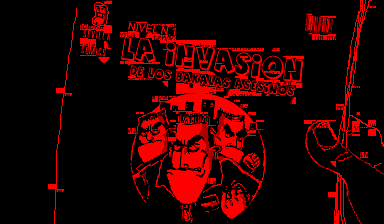
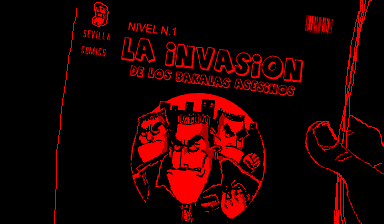
docs: refresh the gallery from the current build, and correct the counts
Gallery is recaptured from today's survey rather than Sunday's, so it shows what
the tree actually produces. Two of the three new shots exist because of the
clipping fixes: Soviet Union 2011's playfield was a blank screen before them.
Hamburgers and BLOX are added, and Soviet Union 2010's wall of intro text is
dropped -- it documented nothing. Capitan Sevilla 2 moves to frame 600; at 900 it
is mid-fade and shows a flat field.

Counts move to 64 / 76 rendering, 35 advancing, 29 frozen, regenerated into
COMPATIBILITY.md from the survey. The frozen half now carries the split that
matters: 16 gated, where our picture is identical at 300/600/900 while hardware
advances, and 13 parked, where neither emulator leaves the boot screen and a
matching score proves nothing.

On 64 rather than 66: Bound High and Virtual Bowling draw nothing in this
session. This was checked rather than assumed -- they are blank against the
pre-fix vip.c too, so the clipping change is not responsible. It also disproves
the explanation this repo has been carrying for them. They were called flaky on
the theory that they miss the first sampled frame before the 45-second timeout;
at 150 seconds they are still blank, and run directly three times each they are
blank identically, 0 and 49 lit pixels with no variation. Within a session they
are deterministic. The flip is across sessions and is still unexplained, so the
old advice stands even though its reason was wrong: a count that moves by exactly
[…]

diff --git a/README.md b/README.md
@@ -4,17 +4,17 @@
 
 Remember the Virtual Boy? Nintendo's red-and-black fever dream from 1995? We're bringing those games back as native executables — no neck strain, no retina damage required.
 
-| | | |
-|:--:|:--:|:--:|
-| ![Mario Kart: Virtual Cup](docs/screenshots/mario-kart-virtual-cup.png) | ![Fishbone](docs/screenshots/fishbone.png) | ![Soviet Union 2010](docs/screenshots/soviet-union-2010.png) |
-| Mario Kart: Virtual Cup | Fishbone | Soviet Union 2010 |
-| ![Capitan Sevilla 2](docs/screenshots/capitan-sevilla-2.png) | ![Vertical Force](docs/screenshots/vertical-force.png) | |
-| Capitan Sevilla 2 | Vertical Force | |
+| | | | |
+|:--:|:--:|:--:|:--:|
+| ![Mario Kart: Virtual Cup](docs/screenshots/mario-kart-virtual-cup.png) | ![Fishbone](docs/screenshots/fishbone.png) | ![Soviet Union 2011](docs/screenshots/soviet-union-2011.png) | ![Hamburgers en Route to Switzerland](docs/screenshots/hamburgers.png) |
+| Mario Kart: Virtual Cup | Fishbone | Soviet Union 2011 | Hamburgers en Route to Switzerland |
+| ![BLOX](docs/screenshots/blox.png) | ![Capitan Sevilla 2](docs/screenshots/capitan-sevilla-2.png) | ![Vertical Force](docs/screenshots/vertical-force.png) | |
+| BLOX | Capitan Sevilla 2 | Vertical Force | |
 
-<sub>All five recompiled to C and booted through the shared generic driver with no
-game-specific code, captured headless at frame 600-900. Shown to document what the
-recompiler currently produces; games, artwork and trademarks belong to their owners.
-See [THIRD_PARTY.md](THIRD_PARTY.md).</sub>
+<sub>All seven recompiled to C and booted through the shared generic driver with no
+game-specific code, captured headless at frame 600-900 from the current build. Shown to
+document what the recompiler currently produces; games, artwork and trademarks belong to
+their owners. See [THIRD_PARTY.md](THIRD_PARTY.md).</sub>
 
 ## What is this?
 
@@ -69,8 +69,9 @@ Progress is tracked in [`COMPATIBILITY.md`](COMPATIBILITY.md), updated as we go.
 ## Status
 
 - **76 / 76 ROMs** (retail + protos + homebrew) recompile and compile clean.
-- **66 / 76 games render on screen** -- **36 still reaching new state** at frame 900 and 30 that drew once and froze -- through the **generic driver** (`games/driver/main.c`) -- no game-specific glue: the recompiler emits the discovered interrupt handlers + reset vector, and the driver wires them up. Three of the 10 that draw nothing are blank on real hardware too -- the three Snowball Wars demos, which never load a single character byte on the Mednafen VB core in 1800 frames. **So the honest denominator is 73, not 76.** Capitan Sevilla 3D and Null Pointer Mockup were on that list until the reference capture was found to be holding buttons that never reached the emulated pad (BizHawk names them `P1 Start`, not `Start`); with input actually applied they both draw on hardware, so they are ours to fix.
+- **64 / 76 games render on screen** on the current build -- **35 still reaching new state** at frame 900, and 29 that drew once and froze. That frozen half is not one thing: measured against hardware (`scripts/reference/motion.py`), **16 are gated** -- our picture is identical at frames 300, 600 and 900 while hardware advances -- and **13 are parked on both sides**, where neither emulator leaves the boot screen and a matching score proves nothing. The count reads 64 rather than the 66 measured in an earlier session because Bound High and Virtual Bowling draw nothing in this one; they are blank against the previous `vip.c` too, so it is not the renderer, and the cross-session flip is still unexplained. All of it runs through the **generic driver** (`games/driver/main.c`) -- no game-specific glue: the recompiler emits the discovered interrupt handlers + reset vector, and the driver wires them up. Three of the 12 that draw nothing are blank on real hardware too -- the three Snowball Wars demos, which never load a single character byte on the Mednafen VB core in 1800 frames. **So the honest denominator is 73, not 76.** Capitan Sevilla 3D and Null Pointer Mockup were on that list until the reference capture was found to be holding buttons that never reached the emulated pad (BizHawk names them `P1 Start`, not `Start`); with input actually applied they both draw on hardware, so they are ours to fix.
 - Getting there took repeated passes of the same loop: find a shared correctness bug, fix it once, measure the whole corpus. Recent ones:
+  - **A world is clipped by the screen, not skipped by it.** The same mistake twice, in opposite directions, both in the VIP's world loop. Worlds with `W` or `H` over 512 were dropped outright -- but a world may be far wider than the display and hardware just clips it, so Insecticide's `W=704` background never drew and the game rendered its objects and HUD on black. And `sy < VB_SCREEN_HEIGHT` bounds a *world*-space index by a *screen*-space limit, which only holds when the origin is non-negative: Soviet Union 2011 parks its background at `GY=-212, H=447` so world rows 224-447 land on screen, and the bound stopped at 223, truncating exactly the visible part. That world went from 0 to 69,426 pixels and the game from 5.5% of the screen lit to 80.9%, matching hardware's own frame-to-frame motion (80.4% against 80.3%).
   - **A function was made out of a call's arguments.** The V810 long-call idiom passes arguments *inline*, in the bytes after the `jal`; the callee reads them through `r31` and returns past them. Those argument bytes had a function made out of them and were decoded as code -- and in Galactic Pinball the first halfword, `0x9800`, decodes as `bp .`, a branch to itself that the caller fell into and spun in for the whole run. The idiom is now detected from the `add N, r31` before `jmp [r31]`, and a split point must be a real instruction boundary. Galactic Pinball went from 1,232 to 9,442 non-zero character writes and from blank to drawing.
   - **The pad only updated when a game asked for it.** `SDLR`/`SDHR` returned a snapshot refreshed only on an `SCR_START` write, but the VB can also read the pad itself -- so a game relying on that saw zero buttons forever. Jack Bros stores the *rising edges* of the pad as its kernel's task-dispatch flags, so a pad frozen at zero has no edges: its scheduler ran 3 times in 700 frames and every task that loads graphics never ran.
   - **A `jmp` after a PC-capture long call is not the end of the flow.** `jal .+4` / `add N, r31` / `jmp [rX]` returns to the address `r31` now holds, but the trace stopped at the `jmp`, so function epilogues after it were emitted *nowhere* -- every virtual call in SPONG returned into a hole.

diff --git a/COMPATIBILITY.md b/COMPATIBILITY.md
@@ -11,10 +11,10 @@ Status values: `yes` | `wip` (partial) | `no` | `-` (untested).
 | ROMs in the library | **76** |
 | Recompile to C | **76 / 76** |
 | That C compiles clean | **76 / 76** |
-| Put something on screen | **66 / 76** |
-| ... still reaching new state at frame 900 | **36** |
-| ... drew once and froze | **30** |
-| Blank | **10** (3 blank on real hardware too, so **7** are ours) |
+| Put something on screen | **64 / 76** |
+| ... still reaching new state at frame 900 | **35** |
+| ... drew once and froze | **29** |
+| Blank | **12** (3 blank on real hardware too, so **9** are ours) |
 
 Three ROMs draw nothing on the reference emulator either -- verified on
 BizHawk's Mednafen VB core at 1800 frames with the same buttons held, where
@@ -49,7 +49,7 @@ See [docs/GETTING_STARTED.md](docs/GETTING_STARTED.md) to reproduce it.
 | Tobidase! Panibon (Japan) | 512 | 216 | yes | yes | yes | yes | frozen | - |  |
 | Vertical Force (Japan) | 1024 | 125 | yes | yes | yes | yes | advancing | - |  |
 | Vertical Force (USA) | 1024 | 125 | yes | yes | yes | yes | advancing | - |  |
-| Virtual Bowling (Japan) | 1024 | 337 | yes | yes | yes | yes | frozen | - |  |
+| Virtual Bowling (Japan) | 1024 | 337 | yes | yes | - | no | blank | - |  |
 | Virtual Boy Wario Land (Japan, USA) (En) | 2048 | 3151 | yes | yes | yes | yes | frozen | - |  |
 | Virtual Fishing (Japan) | 1024 | 92 | yes | yes | yes | yes | frozen | - |  |
 | Virtual Lab (Japan) | 1024 | 238 | yes | yes | yes | yes | advancing | - |  |
@@ -62,7 +62,7 @@ See [docs/GETTING_STARTED.md](docs/GETTING_STARTED.md) to reproduce it.
 
 | Game | KB | Funcs | Recompiles | Compiles | Boots | Renders | Motion | Playable | Notes |
 |------|----|-------|------------|----------|-------|---------|--------|----------|-------|
-| Bound High (Japan) (En) (Proto) | 2048 | 471 | yes | yes | yes | yes | advancing | - |  |
+| Bound High (Japan) (En) (Proto) | 2048 | 471 | yes | yes | - | no | blank | - |  |
 | Niko-chan Battle (Japan) (Proto) | 1024 | 395 | yes | yes | yes | yes | frozen | - |  |
 | Space Pinball (Japan) (En) (Proto) | 2048 | 58 | yes | yes | yes | yes | frozen | - |  |
 

diff --git a/docs/RENDER_TRIAGE.md b/docs/RENDER_TRIAGE.md
@@ -250,11 +250,18 @@ translation or hardware behaviour, not a knob.
 ## Two games are measurement-flaky, not broken
 
 Bound High and Virtual Bowling alternate between `blank` and
-`advancing`/`frozen` across identical runs. They are slow games, and under
-load they do not reach the first sampled frame before the survey's 45-second
-timeout kills them - so a run that scores them blank is measuring the
-timeout, not the game. Read any single-run delta involving these two with
-that in mind; a corpus count that moves by exactly these two has not moved.
+`advancing`/`frozen` across identical runs. They are slow games, and the original
+reading was that they miss the first sampled frame before the survey's
+45-second timeout. **That explanation is now known to be incomplete.** Re-run at
+a 150-second timeout they are still blank, and run directly three times each
+they are blank *identically* -- 0 and 49 lit pixels, no variation. So within a
+session they are deterministic, not racing a timeout; it is across sessions that
+they flip. Checked against the pre-fix `vip.c` as well, in case the world-clipping
+change was responsible: blank there too, so it is not the renderer.
+
+What has not changed is the advice: a corpus count that moves by exactly these
+two has not moved, and any single-run delta involving them should be re-measured
+before it is believed. What is still unexplained is the cross-session flip.
 
 ## The 18 that still draw nothing, by signature
 
